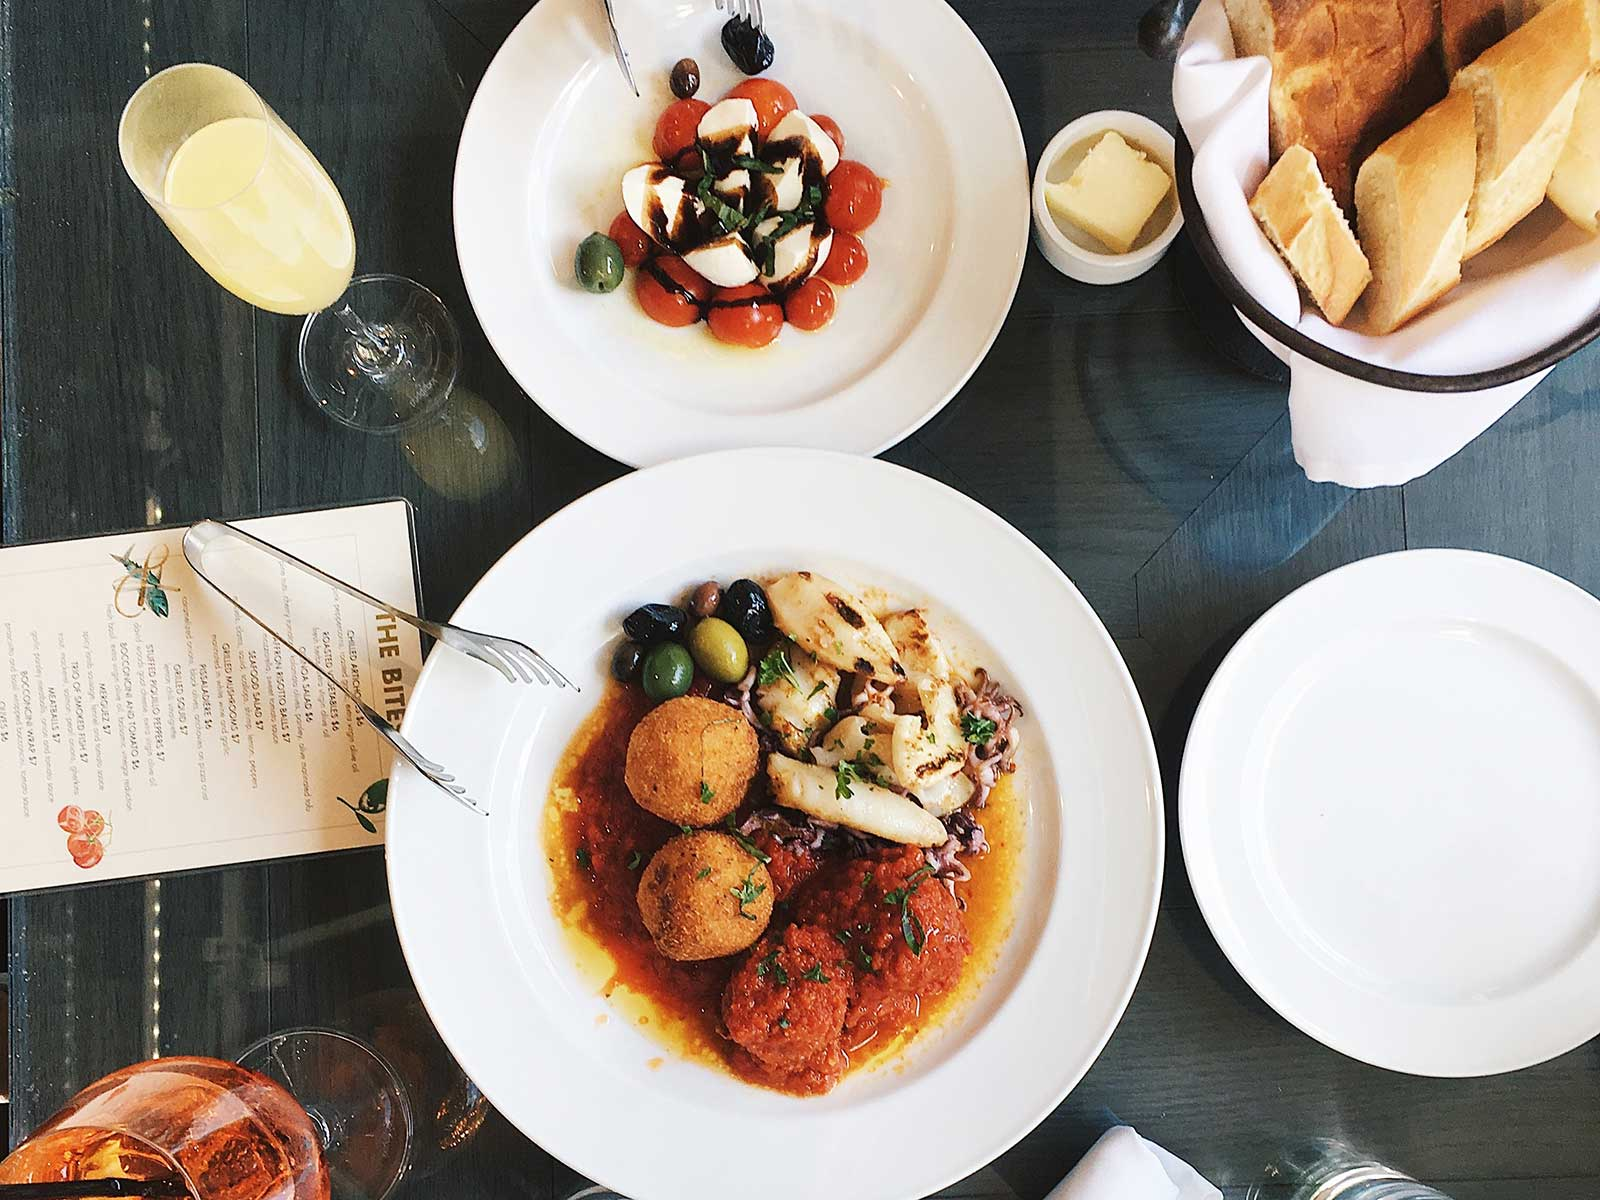
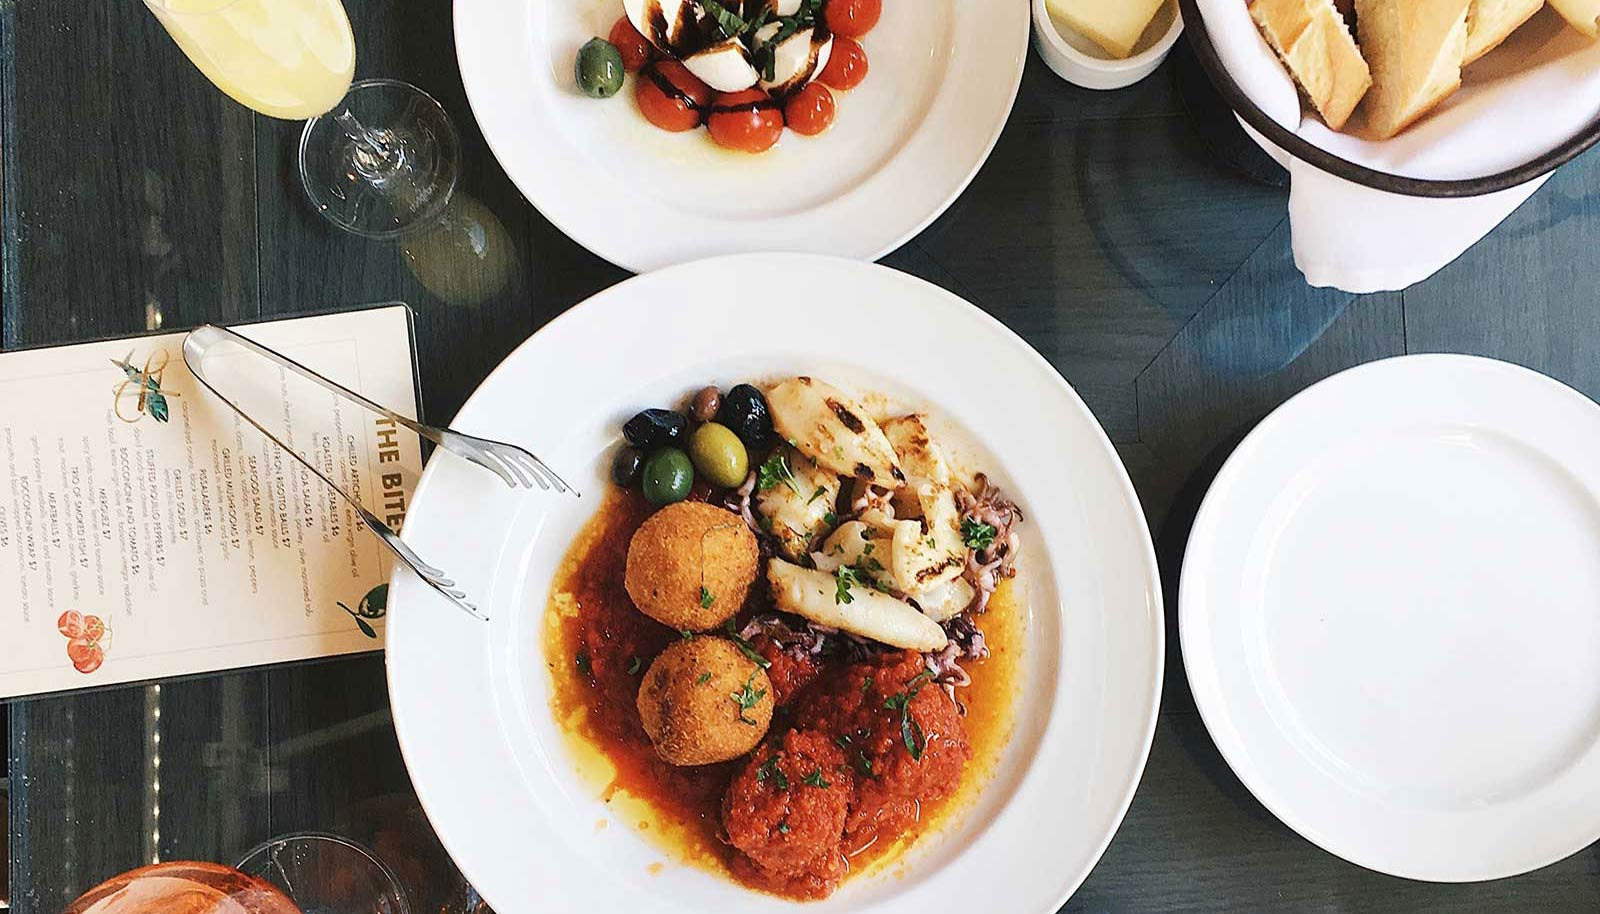
resized img to feet hte different views from mobile to desktop version

diff --git a/la-palette-du-gout.html b/la-palette-du-gout.html
@@ -39,11 +39,11 @@
         <a href="index.html"><img class="headerResto__logo" srcset="
               public/img/home/logo-ohmyfood-ultra.png   1440w,
               public/img/home/logo-ohmyfood-desktop.png  992w,
-              public/img/home/logo-ohmyfood-mobile.png   688w"
+              public/img/home/logo-ohmyfood-mobile.png   768w"
               sizes="100vw" src="public/img/home/logo-ohmyfood-mobile.png" alt="Logo Ohmyfood"/></a>
       </div>
       <picture>
-        <source media="(max-width: 375px)" srcset="public/img/restoPages/la-palette-du-gout-mobile.jpg 375w" sizes="100vw"/>
+        <source media="(max-width: 768px)" srcset="public/img/restoPages/la-palette-du-gout-mobile.jpg 768w" sizes="100vw"/>
         <img srcset="
             public/img/restoPages/la-palette-du-gout-desktop.jpg  992w,
             public/img/restoPages/la-palette-du-gout-ultra.jpg   1440w"
@@ -212,7 +212,7 @@
         <a href="index.html"><img srcset="
               public/img/home/logo-ohmyfood-footer-ultra.png   1440w,
               public/img/home/logo-ohmyfood-footer-desktop.png  992w,
-              public/img/home/logo-ohmyfood-footer-mobile.png   688w"
+              public/img/home/logo-ohmyfood-footer-mobile.png   768w"
               sizes="100vw" src="public/img/home/logo-ohmyfood-footer-mobile.png" alt="Logo Ohmyfood"/></a>
       </div>
       <div>

diff --git a/.public/css/style.css b/.public/css/style.css
@@ -158,13 +158,10 @@ h3 {
 }
 .headerResto picture img {
   width: 100%;
+  max-width: 1359px;
   height: auto;
   object-fit: cover;
-  padding-bottom: 78rem;
   background: #f6f6f6;
-}
-.headerResto .imgHeaderLaNoteEnchantee {
-  padding-bottom: 84rem;
 }
 
 .restoContainer {
@@ -279,7 +276,7 @@ h3 {
 .dishesGroup__item .price {
   font-weight: 700;
   transform: translateX(0);
-  transition: transform 500ms 70ms;
+  transition: transform 500ms;
   background: white;
   position: absolute;
   padding: 1.5rem 2rem 0 0;
@@ -310,13 +307,13 @@ h3 {
   background: #99e2d0;
   position: absolute;
   top: 0;
-  right: -3.9rem;
+  right: -4.1rem;
   transform: translateX(0);
   transition: transform 500ms;
 }
 .dishesGroup__check .fas {
   color: white;
-  padding: 1.75rem 1.2rem;
+  padding: 1.75rem 1.3rem;
   font-size: 1.5rem;
 }
 .dishesGroup__animation {
@@ -358,6 +355,14 @@ h3 {
     transform: translateY(0);
   }
 }
+@media screen and (min-width: 992px) {
+  .dishesGroup h3 {
+    font-size: 0.9rem;
+  }
+  .dishesGroup p {
+    font-size: 0.7rem;
+  }
+}
 footer {
   padding: 0 1.5rem;
   background: #353535;
@@ -380,6 +385,10 @@ footer ul li a .fa-hands-helping {
 }
 footer ul li a:hover {
   color: #ff79da;
+}
+footer .restopage {
+  position: absolute;
+  top: 40rem;
 }
 
 #spinningLoader {

diff --git a/la-note-enchantee.html b/la-note-enchantee.html
@@ -39,11 +39,11 @@
         <a href="index.html"><img class="headerResto__logo" srcset="
               public/img/home/logo-ohmyfood-ultra.png   1440w,
               public/img/home/logo-ohmyfood-desktop.png  992w,
-              public/img/home/logo-ohmyfood-mobile.png   688w"
+              public/img/home/logo-ohmyfood-mobile.png   768w"
               sizes="100vw" src="public/img/home/logo-ohmyfood-mobile.png" alt="Logo Ohmyfood"/></a>
       </div>
       <picture>
-        <source media="(max-width: 375px)" srcset="public/img/restoPages/la-note-enchantee-mobile.jpg 375w" sizes="100vw"/>
+        <source media="(max-width: 768px)" srcset="public/img/restoPages/la-note-enchantee-mobile.jpg 768w" sizes="100vw"/>
         <img class="imgHeaderLaNoteEnchantee" srcset="
             public/img/restoPages/la-note-enchantee-desktop.jpg  992w,
             public/img/restoPages/la-note-enchantee-ultra.jpg   1440w"

diff --git a/le-delice-des-sens.html b/le-delice-des-sens.html
@@ -39,11 +39,11 @@
         <a href="index.html"><img class="headerResto__logo" srcset="
               public/img/home/logo-ohmyfood-ultra.png   1440w,
               public/img/home/logo-ohmyfood-desktop.png  992w,
-              public/img/home/logo-ohmyfood-mobile.png   688w"
+              public/img/home/logo-ohmyfood-mobile.png   768w"
               sizes="100vw" src="public/img/home/logo-ohmyfood-mobile.png" alt="Logo Ohmyfood"/></a>
       </div>
       <picture>
-        <source media="(max-width: 375px)" srcset="public/img/restoPages/le-delice-des-sens-mobile.jpg 375w" sizes="100vw"/>
+        <source media="(max-width: 768px)" srcset="public/img/restoPages/le-delice-des-sens-mobile.jpg 768w" sizes="100vw"/>
         <img srcset="
             public/img/restoPages/le-delice-des-sens-desktop.jpg  992w,
             public/img/restoPages/le-delice-des-sens-ultra.jpg   1440w"

diff --git a/index.html b/index.html
@@ -92,11 +92,11 @@
             <div class="restaurantCard__img">
                 <p class="newLabel">Nouveau</p>
               <picture>
-                <source media="(max-width: 375px)" srcset="public/img/home/la-palette-du-gout-mobile.jpg 375w" sizes="100vw"/>
+                <source media="(min-width: 768px)" srcset="public/img/home/la-palette-du-gout-mobile.jpg 768w" sizes="100vw"/>
                 <img srcset="
                     public/img/home/la-palette-du-gout-desktop.jpg  992w,
                     public/img/home/la-palette-du-gout-ultra.jpg   1440w"
-                  sizes="100vw" src="public\img\home\la-palette-du-gout-mobile.jpg" alt="La palette du goût"/>
+                  sizes="100vw" src="public/img/home/la-palette-du-gout-mobile.jpg" alt="La palette du goût"/>
               </picture>
             </div>
             <div class="restaurantCard__info">

diff --git a/sass/layout/_dishesGroup.scss b/sass/layout/_dishesGroup.scss
@@ -23,7 +23,7 @@
     .price {
       font-weight: 700;
       transform: translateX(0);
-      transition: transform 500ms 70ms;
+      transition: transform 500ms;
       background: white;
       position: absolute;
       padding: 1.5rem 2rem 0 0;
@@ -45,12 +45,12 @@
     background: $clr-tertiary;
     position: absolute;
     top: 0;
-    right: -3.9rem;
+    right: -4.1rem;
     transform: translateX(0);
     transition: transform 500ms;
     .fas {
       color: white;
-      padding: 1.75rem 1.2rem;
+      padding: 1.75rem 1.3rem;
       font-size: 1.5rem;
     }
   }
@@ -97,7 +97,13 @@
 
 //*************************media-queries
 
-@media screen and (min-width: map-get($breakpoints, mobile)) {
+@media screen and (min-width: map-get($breakpoints, desktop)) {
   .dishesGroup {
+    h3 {
+      font-size: 0.9rem;
+    }
+    p {
+      font-size: 0.7rem;
+    }
   }
 }

diff --git a/a-la-française.html b/a-la-française.html
@@ -43,7 +43,7 @@
               sizes="100vw" src="public/img/home/logo-ohmyfood-mobile.png" alt="Logo Ohmyfood"/></a>
       </div>
       <picture>
-        <source media="(max-width: 375px)" srcset="public/img/restoPages/a-la-francaise-mobile.jpg 375w" sizes="100vw"/>
+        <source media="(max-width: 768px)" srcset="public/img/restoPages/a-la-francaise-mobile.jpg 768w" sizes="100vw"/>
         <img srcset="
             public/img/restoPages/a-la-francaise-desktop.jpg  992w,
             public/img/restoPages/a-la-francaise-ultra.jpg   1440w "
@@ -205,7 +205,7 @@
     </section>
 
     <!--Footer-->
-    <footer>
+    <footer class="restoPage">
       <div>
         <a href="index.html"><img srcset="
               public/img/home/logo-ohmyfood-footer-ultra.png   1440w,

diff --git a/sass/layout/_header.scss b/sass/layout/_header.scss
@@ -38,12 +38,9 @@
   }
   picture img {
     width: 100%;
+    max-width: 1359px;
     height: auto;
     object-fit: cover;
-    padding-bottom: 78rem;
     background: $clr-bgMain;
-  }
-  .imgHeaderLaNoteEnchantee {
-    padding-bottom: 84rem;
   }
 }

diff --git a/sass/layout/_dishesBloc.scss b/sass/layout/_dishesBloc.scss
@@ -15,10 +15,3 @@
     }
   }
 }
-
-//*************************media-queries
-
-@media screen and (min-width: map-get($breakpoints, mobile)) {
-  .dishesBloc {
-  }
-}

diff --git a/sass/layout/_footer.scss b/sass/layout/_footer.scss
@@ -26,4 +26,8 @@ footer {
       }
     }
   }
+  .restopage {
+    position: absolute;
+    top: 40rem;
+  }
 }
